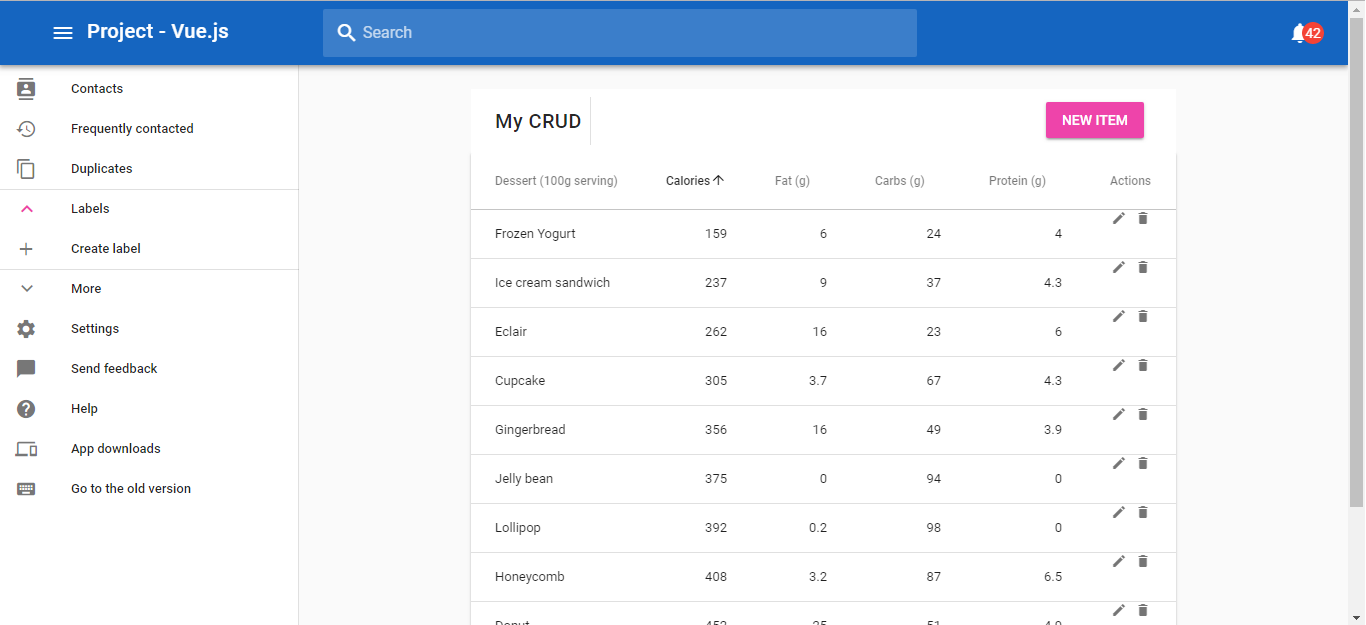
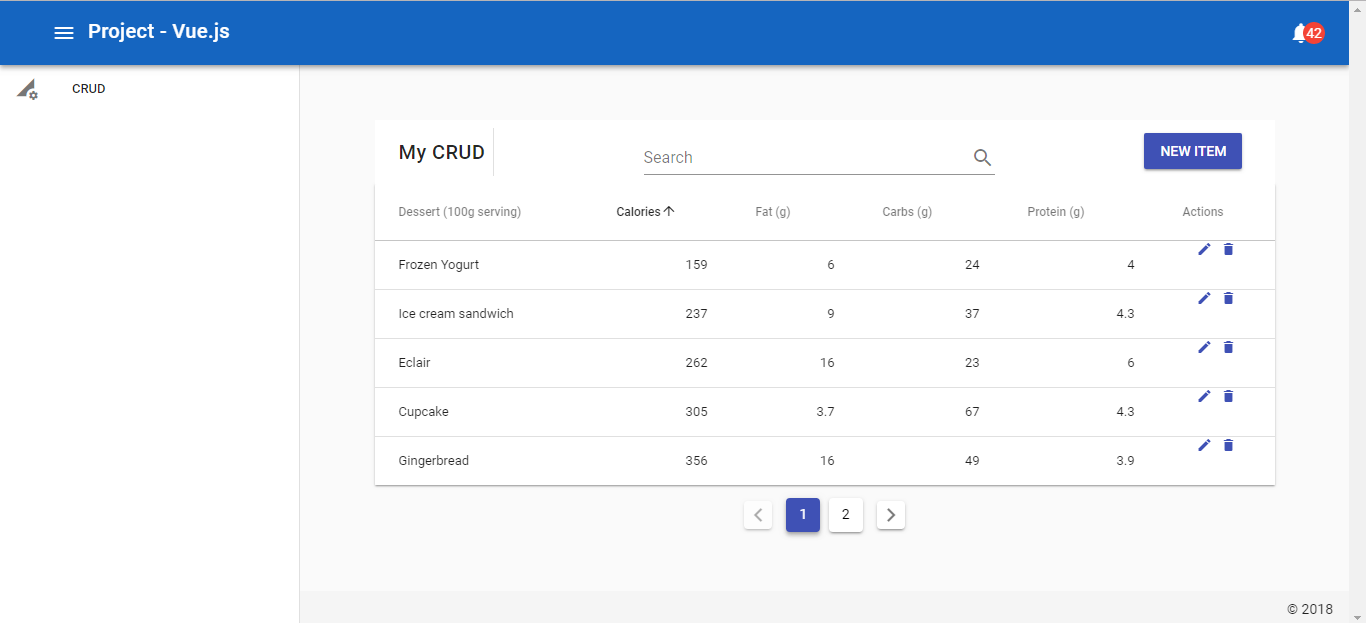
Ajustes na tabela de informações, inclusão de campo de pesquisa, ajuste de cores e limpeza no menu

diff --git a/src/components/CTable.vue b/src/components/CTable.vue
@@ -1,5 +1,5 @@
 <template>
-  <div>
+  <div class="width_div_table">
     <v-toolbar flat color="white">
       <v-toolbar-title>My CRUD</v-toolbar-title>
       <v-divider
@@ -8,8 +8,17 @@
         vertical
       ></v-divider>
       <v-spacer></v-spacer>
+      <v-text-field 
+        color="indigo"
+        v-model="search"
+        append-icon="search"
+        label="Search"
+        single-line
+        hide-details
+      ></v-text-field>
+      <v-spacer></v-spacer>
       <v-dialog v-model="dialog" max-width="500px">
-        <v-btn slot="activator" color="primary" dark class="mb-2">New Item</v-btn>
+        <v-btn slot="activator" color="indigo" dark class="mb-2">New Item</v-btn>
         <v-card>
           <v-card-title>
             <span class="headline">{{ formTitle }}</span>
@@ -19,19 +28,19 @@
             <v-container grid-list-md>
               <v-layout wrap>
                 <v-flex xs12 sm6 md4>
-                  <v-text-field v-model="editedItem.name" label="Dessert name"></v-text-field>
+                  <v-text-field color="indigo" v-model="editedItem.name" label="Dessert name"></v-text-field>
                 </v-flex>
                 <v-flex xs12 sm6 md4>
-                  <v-text-field v-model="editedItem.calories" label="Calories"></v-text-field>
+                  <v-text-field color="indigo" v-model="editedItem.calories" label="Calories"></v-text-field>
                 </v-flex>
                 <v-flex xs12 sm6 md4>
-                  <v-text-field v-model="editedItem.fat" label="Fat (g)"></v-text-field>
+                  <v-text-field color="indigo" v-model="editedItem.fat" label="Fat (g)"></v-text-field>
                 </v-flex>
                 <v-flex xs12 sm6 md4>
-                  <v-text-field v-model="editedItem.carbs" label="Carbs (g)"></v-text-field>
+                  <v-text-field color="indigo" v-model="editedItem.carbs" label="Carbs (g)"></v-text-field>
                 </v-flex>
                 <v-flex xs12 sm6 md4>
-                  <v-text-field v-model="editedItem.protein" label="Protein (g)"></v-text-field>
+                  <v-text-field color="indigo" v-model="editedItem.protein" label="Protein (g)"></v-text-field>
                 </v-flex>
               </v-layout>
             </v-container>
@@ -50,6 +59,8 @@
       :items="desserts"
       hide-actions
       class="elevation-1"
+      :search="search"
+      :pagination.sync="pagination"
     >
       <template slot="items" slot-scope="props">
         <td>{{ props.item.name }}</td>
@@ -61,12 +72,14 @@
           <v-icon
             small
             class="mr-2"
+            color="indigo"  
             @click="editItem(props.item)"
           >
             edit
           </v-icon>
           <v-icon
             small
+            color="indigo"
             @click="deleteItem(props.item)"
           >
             delete
@@ -74,9 +87,12 @@
         </td>
       </template>
       <template slot="no-data">
-        <v-btn color="primary" @click="initialize">Reset</v-btn>
+        <v-btn color="indigo" @click="initialize">Reset</v-btn>
       </template>
     </v-data-table>
+    <div class="text-xs-center pt-2">
+      <v-pagination color="indigo" v-model="pagination.page" :length="pages"></v-pagination>
+    </div>
   </div>
 </template>
 
@@ -84,6 +100,8 @@
   export default {
     data: () => ({
       dialog: false,
+      search: '',
+      pagination: {},
       headers: [
         {
           text: 'Dessert (100g serving)',
@@ -118,6 +136,13 @@
     computed: {
       formTitle () {
         return this.editedIndex === -1 ? 'New Item' : 'Edit Item'
+      },
+       pages () {
+        if (this.pagination.rowsPerPage == null ||
+          this.pagination.totalItems == null
+        ) return 0
+
+        return Math.ceil(this.pagination.totalItems / this.pagination.rowsPerPage)
       }
     },
 
@@ -237,3 +262,9 @@
     }
   }
 </script>
+
+<style type="text/css">
+  .width_div_table{
+     width: 900px;
+  }
+</style>

diff --git a/src/components/CHome.vue b/src/components/CHome.vue
@@ -43,7 +43,7 @@
               @click=""
             >
               <v-list-tile-action v-if="child.icon">
-                <v-icon>{{ child.icon }}</v-icon>
+                <v-icon color="indigo">{{ child.icon }}</v-icon>
               </v-list-tile-action>
               <v-list-tile-content>
                 <v-list-tile-title>
@@ -76,14 +76,6 @@
         <v-toolbar-side-icon @click.stop="drawer = !drawer"></v-toolbar-side-icon>
         <span class="hidden-sm-and-down">Project - Vue.js</span>
       </v-toolbar-title>
-      <v-text-field
-        flat
-        solo-inverted
-        hide-details
-        prepend-inner-icon="search"
-        label="Search"
-        class="hidden-sm-and-down"
-      ></v-text-field>
       <v-spacer></v-spacer>
       <v-btn icon>
         <v-icon>notifications</v-icon>
@@ -118,36 +110,7 @@
       dialog: false,
       drawer: null,
       items: [
-        { icon: 'contacts', text: 'Contacts' },
-        { icon: 'history', text: 'Frequently contacted' },
-        { icon: 'content_copy', text: 'Duplicates' },
-        {
-          icon: 'keyboard_arrow_up',
-          'icon-alt': 'keyboard_arrow_down',
-          text: 'Labels',
-          model: true,
-          children: [
-            { icon: 'add', text: 'Create label' }
-          ]
-        },
-        {
-          icon: 'keyboard_arrow_up',
-          'icon-alt': 'keyboard_arrow_down',
-          text: 'More',
-          model: false,
-          children: [
-            { text: 'Import' },
-            { text: 'Export' },
-            { text: 'Print' },
-            { text: 'Undo changes' },
-            { text: 'Other contacts' }
-          ]
-        },
-        { icon: 'settings', text: 'Settings' },
-        { icon: 'chat_bubble', text: 'Send feedback' },
-        { icon: 'help', text: 'Help' },
-        { icon: 'phonelink', text: 'App downloads' },
-        { icon: 'keyboard', text: 'Go to the old version' }
+        { icon: 'perm_data_setting', text: 'CRUD' },
       ]
     }),
     props: {

diff --git a/src/plugins/vuetify.js b/src/plugins/vuetify.js
@@ -15,7 +15,9 @@ import {
   VCard,
   VDialog,
   VDivider,
-  VBadge
+  VBadge,
+  VPagination,
+  VBtnToggle
 } from 'vuetify'
 import 'vuetify/src/stylus/app.styl'
 
@@ -35,7 +37,9 @@ Vue.use(Vuetify, {
     VCard,
     VDialog,
     VDivider,
-    VBadge
+    VBadge,
+    VPagination,
+    VBtnToggle
   },
   theme: {
     primary: '#ee44aa',

diff --git a/README.md b/README.md
@@ -1,28 +1,39 @@
-# my-app
+# Project Vue JS/Vuetify - Template CRUD
 
-## Project setup
-```
-npm install
-```
+## Vuetify - Material Design Component Framework
 
-### Compiles and hot-reloads for development
-```
-npm run serve
-```
+### Source of material > [Vuetify](https://vuetifyjs.com)
 
-### Compiles and minifies for production
-```
-npm run build
-```
+---
 
-### Run your tests
+## Quick Start
+
+### Vue-CLI 3 is the next generation cli tool made to help you get started more easily than before. When you start your app with vue-cli you will also be able to get the official webpack updates and config changes, as well as Vuetify's updates without an arduous upgrade process.
 ```
-npm run test
+$ yarn global add @vue/cli
+// OR
+$ npm install @vue/cli -g 	
 ```
 
-### Lints and fixes files
+### Once the cli is installed, you can generate a new project scaffold. Select the default install unless you have specific packages that you need to include (e.g. vuex or vue-router). This will create a new Vue project that's ready to go with your selected options.
 ```
-npm run lint
+$ vue create my-app
+$ cd my-app
+```
+
+### Now that you have an instantiated project, you can add the [Vuetify package](https://github.com/vuetifyjs/vue-cli-plugin-vuetify) using the cli.
+```
+vue add vuetify
+```
+
+### Keep in mind, if you are installing the Vuetify package on an existing vue-cli-3 project, ensure you have a clean working directory in case there are issues with the merge.
+
+### After installation, you can run the dev npm script in package.json. This will start a local development server at https://localhost:8080.
+
+```
+$ yarn serve
+// OR
+$ npm run serve
 ```
 
 ### img page version 1.0
